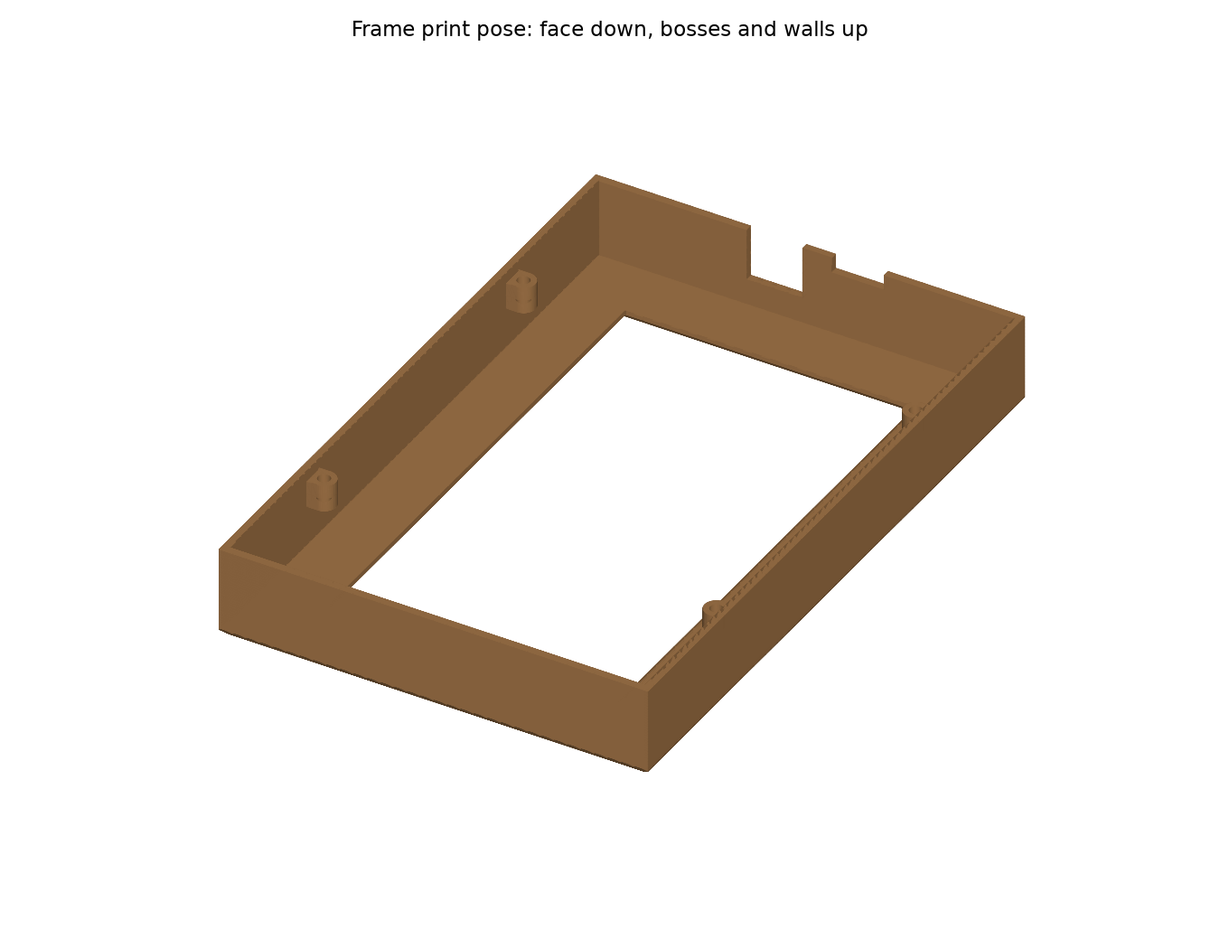
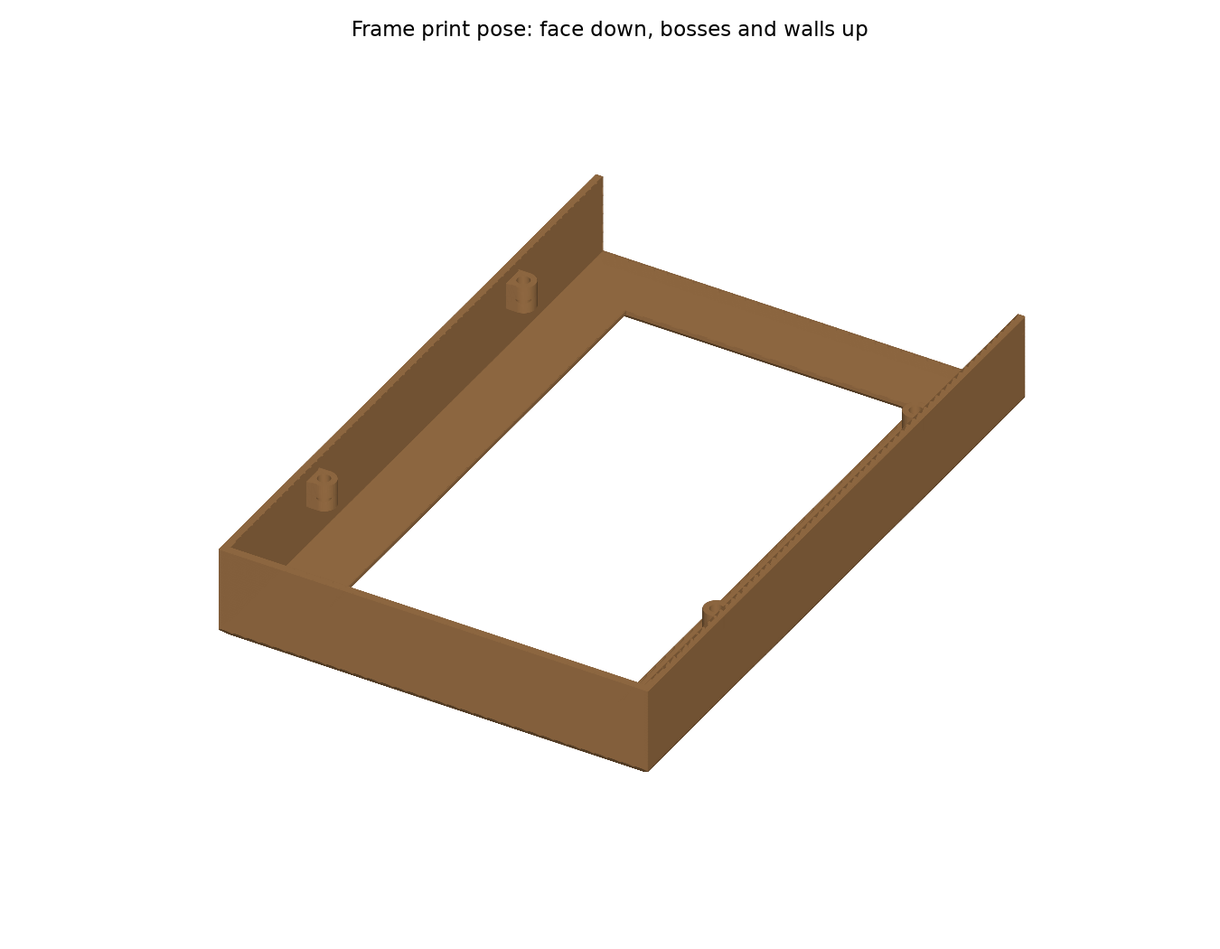
fix: COM-431 drop the espframe stand frame's bottom wall
- Remove the 7" stand frame's bottom wall and its cable/dovetail notches; the face and side walls sit on the ledge felt
- Square the face's bottom outer edge so it sits flat on the ledge; chamfer kept on top and sides
- Ease MIN_TIP_FORCE_N to 4.25 for the 5 g lighter frame (4.28 N) and update checks for the open bottom
- README: COM-431 changes (reprint the frame only) and a bold assembly-order note about the 2.3 mm plate drop

Changed region(s): [[0.4667, 0.1829, 0.84, 0.3962]]

diff --git a/apps/espframe/hardware/stand/stand/frame.py b/apps/espframe/hardware/stand/stand/frame.py
@@ -1,10 +1,13 @@
 """Picture frame (style B, classic bevel, 21 mm face), printed face-down in wood-look PLA.
 
 The opening is the active area plus a small reveal, and the face is the same width all
-round, so the uneven black bezel reads as an even border. The frame hangs on four tabs
-on the back-plate (screws from behind into inserts in wall bosses) and its bottom rail
-sits on the felted ledge of the foot. It never touches the glass: felt on the back of the
-face stays FELT_CLEAR off the glass, and the walls clear the glass edges.
+round, so the uneven black bezel reads as an even border. The frame hangs on the
+back-plate (screws from behind into inserts in wall bosses) and the bottom edge of its face
+sits on the felted ledge of the foot. Walls run down the sides and across the top only: a
+bottom wall would have to fit between the ledge and the glass. The outer chamfer runs round
+the top and sides, and the bottom edge is square so the face sits flat on the ledge. It
+never touches the glass: felt on the back of the face stays FELT_CLEAR off the glass, and
+the walls clear the glass edges.
 """
 
 from build123d import Align, Cylinder, Part, Plane, Pos, Rectangle, Rot, extrude, loft
@@ -26,19 +29,20 @@ def build_frame() -> Part:
     z_front = z_back + p.FRAME_FACE_T
     ch, bev = p.FRAME_OUTER_CH, p.FRAME_BEVEL
 
-    # Face: straight outer band, then a 45° outer chamfer to the front surface.
+    # Face: straight outer band, then a 45° outer chamfer to the front surface on the top and
+    # sides. The bottom edge stays square, so the face comes right down to the ledge.
     face = extrude(_rect_at(ox0, ox1, oy0, oy1, z_back), z_front - ch - z_back)
     face += loft([_rect_at(ox0, ox1, oy0, oy1, z_front - ch),
-                  _rect_at(ox0 + ch, ox1 - ch, oy0 + ch, oy1 - ch, z_front)])
+                  _rect_at(ox0 + ch, ox1 - ch, oy0, oy1 - ch, z_front)])
     # Opening with a 45° bevel opening out towards the viewer.
     face -= extrude(_rect_at(px0, px1, py0, py1, z_back - 1), z_front - z_back + 2)
     face -= loft([_rect_at(px0, px1, py0, py1, z_front - bev),
                   _rect_at(px0 - bev - 0.01, px1 + bev + 0.01, py0 - bev - 0.01, py1 + bev + 0.01, z_front + 0.01)])
 
-    # Walls from the face back to the plate's back face.
+    # Side and top walls from the face back to the plate's back face; no bottom wall (COM-431).
     w = p.FRAME_WALL
     walls = extrude(_rect_at(ox0, ox1, oy0, oy1, -p.D_PLATE_BACK), p.D_PLATE_BACK + z_back)
-    walls -= extrude(_rect_at(ox0 + w, ox1 - w, oy0 + w, oy1 - w, -p.D_PLATE_BACK - 1), p.D_PLATE_BACK + z_back + 2)
+    walls -= extrude(_rect_at(ox0 + w, ox1 - w, oy0 - 1, oy1 - w, -p.D_PLATE_BACK - 1), p.D_PLATE_BACK + z_back + 2)
     frame = face + walls
 
     # Bosses for the M3 × 4 inserts, tied to the side walls, face at the plate's front face.
@@ -53,12 +57,6 @@ def build_frame() -> Part:
             frame -= Pos(xc, ty, -p.D_PLATE_FRONT - 0.01) * Cylinder(
                 p.INSERT_HOLE_D / 2, p.FRAME_INSERT_DEPTH, align=(Align.CENTER, Align.CENTER, Align.MIN))
 
-    # Cable notch through the bottom rail, behind the glass, where the plug lead drops into the foot.
-    frame -= screen_box(p.PORT_X - p.FRAME_NOTCH_W / 2, p.PORT_X + p.FRAME_NOTCH_W / 2, oy0 - 1, oy0 + w + 0.5,
-                        p.SLOT_T[0] - 1, p.D_PLATE_BACK + 1)
-    # Notch round the foot's dovetail rail, which rises from the ledge through the bottom rail.
-    frame -= screen_box(p.DOVE_X - p.DOVE_FLOOR_W / 2 - 1.0, p.DOVE_X + p.DOVE_FLOOR_W / 2 + 1.0, oy0 - 1, oy0 + w + 0.5,
-                        p.D_PLATE_BACK - p.DOVE_DEPTH - 0.5, p.D_PLATE_BACK + 1)
     return frame
 
 

diff --git a/apps/espframe/hardware/stand/stand/params.py b/apps/espframe/hardware/stand/stand/params.py
@@ -74,7 +74,8 @@ SCREEN_MASS = 354.0               # g, SOURCED (Waveshare listing, touch SKU)
 PLATE_T = 3.0                     # DESIGN
 RISER_D = 9.0                     # DESIGN: wide footprint, spreads screw load
 RISER_H = (PANEL_T + JST_DESIGN_H + PLATE_CLEAR) - (PANEL_T + TAB_H + BRASS_L)  # = 4.5, DESIGN
-PLATE_EDGE_CLEAR = 0.3           # DESIGN: plate edge to the frame's inner walls; the plate closes the whole back
+PLATE_EDGE_CLEAR = 0.3           # DESIGN: plate edge to the frame's inner walls; the plate closes the back at the sides and top
+                                  #   (the frame has no bottom wall, so a 2.3 mm gap stays above the ledge felt)
 PLATE_R = 0.5                     # DESIGN: corner radius (the frame's inner corners are square)
 # Vent slots through the plate (the back is otherwise closed): rows low down draw air in, rows
 # near the top let warm air out. Kept clear of the risers, spine, cable notch and frame screws.
@@ -180,9 +181,9 @@ RECEPTACLE_TRIAL_T = [1.0, 1.2, 1.4]   # DESIGN: test plates bracketing JACK_REC
 DOVE_TRIAL_CLEARS = [0.02, 0.03, 0.04]                    # DESIGN: round 3, brackets SLIDE_CLEAR (round 2: 0.05 closest, a touch loose)
 
 # Required results.
-MIN_TIP_FORCE_N = 4.3             # DESIGN (user, COM-417): accepted for the 15° lean on the 120 mm foot (4.32 N), in exchange
-                                  #   for a shorter foot. The 10° stand, 118 deep, was 4.5 N and the printed one felt very stable
-                                  #   without ballast; was 6.5 with steel (rev A design: 3.2)
+MIN_TIP_FORCE_N = 4.25            # DESIGN (user, COM-431): 4.3 for the 15° lean on the 120 mm foot (COM-417), eased when the
+                                  #   frame lost its bottom wall (~5 g) rather than reprint a deeper foot. The 10° stand, 118 deep,
+                                  #   was 4.5 N and the printed one felt very stable without ballast; was 6.5 with steel (rev A design: 3.2)
 
 # --- Picture frame (style B, classic bevel, 21 mm face, wood-look) -------------------
 FRAME_DENSITY = 1.18e-3           # g/mm³, EST: wood-fill PLA (1.15–1.2); PolyWood is lighter
@@ -195,8 +196,8 @@ MIN_REVEAL = 0.5                  # DESIGN: check limit
 FRAME_FACE_W = 21.0               # DESIGN: minimum for an even border (top/bottom bezels are 19.04)
 FRAME_FACE_T = 4.0                # DESIGN
 FRAME_BEVEL = 3.0                 # DESIGN: 45° × 3 into the opening
-FRAME_OUTER_CH = 2.0              # DESIGN: 45° outer chamfer
-FRAME_WALL = 2.0                  # DESIGN
+FRAME_OUTER_CH = 2.0              # DESIGN: 45° outer chamfer, top and sides; the bottom edge is square (COM-431)
+FRAME_WALL = 2.0                  # DESIGN: side and top walls; no bottom wall (COM-431: it didn't fit between ledge and glass)
 FRAME_FACE_GAP = FELT_T + FELT_CLEAR   # face rear surface in front of the glass (1.2)
 MIN_EDGE_GAP = 0.5                # DESIGN: check limit, glass edge to frame wall
 
@@ -219,6 +220,5 @@ FRAME_BOSS_D = 7.0                # DESIGN
 FRAME_BOSS_L = 8.0                # DESIGN: boss length towards the glass from the plate front face
 FRAME_INSERT_DEPTH = INSERT_M3x4_L + 2.0   # DESIGN: M3 × 8 through a 3 mm tab reaches 5
 FRAME_SCREW_L = 8.0               # DESIGN
-FRAME_NOTCH_W = 17.0              # DESIGN: cable notch through the frame's bottom rail; 15 felt tight (COM-417)
 
 MIN_DOVE_ENGAGE = 30.0            # DESIGN: check limit

diff --git a/apps/espframe/hardware/stand/stand/checks.py b/apps/espframe/hardware/stand/stand/checks.py
@@ -85,7 +85,7 @@ def run(parts: dict) -> list:
     push_z = screen_point(p.GLASS_W / 2, p.GLASS_H / 2, 0).Z
     force = m_tot / 1000 * g * (p.FOOT_D - cg_y) / push_z
     side = math.degrees(math.atan((p.FOOT_W / 2) / cg_z))
-    detail = (f"{force:.1f} N (need ≥ {p.MIN_TIP_FORCE_N}); total {m_tot:.0f} g = "
+    detail = (f"{force:.2f} N (need ≥ {p.MIN_TIP_FORCE_N}); total {m_tot:.0f} g = "
               + ", ".join(f"{n} {m:.0f}" for m, _, _, n in masses)
               + f"; CG {cg_y:.1f} mm behind the glass corner, {cg_z:.1f} mm up; sideways tip at {side:.0f}°")
     add("Tip-over push at screen centre", force >= p.MIN_TIP_FORCE_N, detail)
@@ -158,9 +158,10 @@ def run(parts: dict) -> list:
         f"closest frame-to-glass {g_gap:.2f} mm (need ≥ {p.MIN_EDGE_GAP}), overlap {g_over:.4f} mm³")
     w = p.FRAME_WALL
     edges = dict(left=0 - (p.FRAME_X[0] + w), right=(p.FRAME_X[1] - w) - p.GLASS_W,
-                 top=(p.FRAME_Y[1] - w) - p.GLASS_H, bottom=0 - (p.FRAME_Y[0] + w))
+                 top=(p.FRAME_Y[1] - w) - p.GLASS_H)
     add("Glass edge gap", min(edges.values()) >= p.MIN_EDGE_GAP,
-        "L / R / T / B " + " / ".join(f"{v:.2f}" for v in edges.values()) + f" mm (need ≥ {p.MIN_EDGE_GAP})")
+        "L / R / T " + " / ".join(f"{v:.2f}" for v in edges.values()) + f" mm (need ≥ {p.MIN_EDGE_GAP}); "
+        f"B open, no bottom wall: ledge felt {p.RISE:.2f} mm below the glass")
     felt = ref.face_felt()
     f_gap = felt.distance_to(panel)
     f_over = (felt & aa).volume
@@ -182,8 +183,9 @@ def run(parts: dict) -> list:
         f"with an M3 × 4 insert")
     lf = SCREEN_TO_WORLD * ref.ledge_felt()
     seat_ok = lf.distance_to(foot) < 1e-3 and lf.distance_to(frame_w) < 1e-3 and (frame_w & foot).volume < 1e-3
-    add("Frame rail seats on the ledge", seat_ok,
-        f"bottom rail sits on {p.FELT_T:.0f} mm felt on the ledge; screen raised {p.RISE:.2f} mm by the rail; "
+    add("Frame face seats on the ledge", seat_ok,
+        f"face bottom edge (square, {p.FRAME_FACE_T:.0f} mm) and side walls sit on {p.FELT_T:.0f} mm felt on the ledge; "
+        f"screen raised {p.RISE:.2f} mm; "
         f"frame-to-foot overlap {(frame_w & foot).volume:.4f} mm³, closest {frame_w.distance_to(foot):.2f} mm")
     engage = min(p.DOVE_GROOVE_L, p.DOVE_RAIL_L - p.SEAT) - max(0.0, -p.SEAT)
     add("Dovetail engagement", engage >= p.MIN_DOVE_ENGAGE,

diff --git a/apps/espframe/hardware/stand/stand/frames.py b/apps/espframe/hardware/stand/stand/frames.py
@@ -6,8 +6,8 @@ from . import params as p
 
 # Screen frame: x across, y up the glass from its bottom edge, z = -depth behind
 # the glass front. Rotating by (90 - tilt) about X maps it onto the world frame.
-# The ledge surface is the screen-frame plane y = -SEAT (the frame's bottom rail sits
-# on felt on it), and the point (y = -SEAT, depth 0) lands at world (Y=0, Z=LEDGE_H).
+# The ledge surface is the screen-frame plane y = -SEAT (the bottom edge of the frame's
+# face sits on felt on it), and the point (y = -SEAT, depth 0) lands at world (Y=0, Z=LEDGE_H).
 SCREEN_TO_WORLD: Location = Pos(0, 0, p.LEDGE_H) * Rot(X=90 - p.TILT_DEG) * Pos(0, p.SEAT, 0)
 
 

diff --git a/apps/espframe/hardware/stand/stand/foot.py b/apps/espframe/hardware/stand/stand/foot.py
@@ -44,7 +44,7 @@ def build_foot() -> Part:
     L = layout()
 
     # Body: side profile extruded across the width. The ledge is a flat seat (with felt)
-    # under the picture frame's bottom rail, from just in front of the frame face back
+    # under the picture frame's face and side walls, from just in front of the frame face back
     # to the plate; no lip, so nothing touches the glass.
     seat_front = _sp(-p.SEAT, -(p.FRAME_FACE_GAP + p.FRAME_FACE_T + p.LEDGE_OVER))
     profile = [

diff --git a/apps/espframe/hardware/stand/stand/reference.py b/apps/espframe/hardware/stand/stand/reference.py
@@ -62,7 +62,7 @@ def face_felt() -> Part:
 
 
 def ledge_felt() -> Part:
-    """1 mm felt between the ledge and the frame's bottom rail (screen frame)."""
+    """1 mm felt between the ledge and the frame's face and side walls (screen frame)."""
     return screen_box(p.FRAME_X[0], p.FRAME_X[1], -p.SEAT, -p.RISE,
                       -(p.FRAME_FACE_GAP + p.FRAME_FACE_T), p.D_PLATE_BACK)
 

diff --git a/apps/espframe/hardware/stand/README.md b/apps/espframe/hardware/stand/README.md
@@ -12,26 +12,35 @@ A 3D-printable portrait desk stand for the 7" espframe (Waveshare ESP32-S3-Touch
 
 - **Picture frame (wood-look PLA).** Style B, classic bevel, with a 21 mm face.
   - The opening is the picture area plus a 0.75 mm reveal (88.22 × 156.38), and the face is the same width all round. That hides the panel's uneven black bezel (11 / 13 / 19 / 19 mm) behind an even border, so the frame sits 1 mm right of the glass centre.
-  - The face is 4 mm thick, with a 45° × 3 mm bevel into the opening and a 2 mm outer chamfer.
-  - The frame hangs on the back-plate: four M3 × 8 screws from behind, through the plate's edges, go into inserts in bosses on its side walls. Its bottom rail sits on felt on the foot's ledge.
-  - It never touches the glass. 1 mm felt on the back of the face stays 0.2 mm off the glass, and the walls clear the glass edges by ≥ 0.7 mm.
+  - The face is 4 mm thick, with a 45° × 3 mm bevel into the opening and a 2 mm outer chamfer round the top and sides. Its bottom edge is square, so the face comes right down to the ledge.
+  - The frame hangs on the back-plate: four M3 × 8 screws from behind, through the plate's edges, go into inserts in bosses on its side walls. The walls run down the sides and across the top only. There's no bottom wall: the bottom edge of the face and the ends of the side walls sit on felt on the foot's ledge.
+  - It never touches the glass. 1 mm felt on the back of the face stays 0.2 mm off the glass, and the walls clear the side and top glass edges by ≥ 0.7 mm.
 - **Back-plate (3 mm PETG).** It screws to the four M3 brass spacers that Waveshare already fits to the panel (8 mm, on ~2 mm tabs, tops at 10 mm).
   - Four printed risers (Ø9 × 4.5) sit on the spacers, lifting the plate to 14.5 mm above the panel back. That clears the tallest part, the 12 mm UART2 JST, by 2 mm (designed to 12.5).
-  - It fills the frame out to its walls (0.3 mm clear), so the back is closed all round, and carries the frame on four screws near its side edges.
+  - It fills the frame out to its walls (0.3 mm clear), so the back is closed at the sides and top, with a 2.3 mm gap left along the bottom between the plate edge and the ledge felt (the frame has no bottom wall since COM-431), and carries the frame on four screws near its side edges.
   - Two rows of vent slots low down and two near the top (4 slots of 20 × 3 mm each) let air through, since the back is otherwise closed.
-- **Foot (PETG).** The plate slides down onto a dovetail rail on the foot's post, and the frame's bottom rail settles on the felted ledge (20 mm high). The screen leans back at 15°, like a desktop picture frame (10° before COM-417).
+- **Foot (PETG).** The plate slides down onto a dovetail rail on the foot's post, and the frame's face settles on the felted ledge (20 mm high). The screen leans back at 15°, like a desktop picture frame (10° before COM-417).
   - No ballast: the printed stand was sturdy without it, and the front under the ledge is solid. The foot is 120 mm deep.
   - The tray is open on top and closed with a lid that clicks in: two small ridges on each long edge snap into grooves in the tray's rim. Prise it out at the slot in its front-right corner.
 - **Power and data.** A Poyiccot USB 3.1 panel-mount extension (straight, 30 cm) passes every pin through:
   - Its plug goes into the board's UART (CH343) USB-C port.
-  - The lead drops through notches in the plate and frame and through the deck slot, bends at R18, lies as one loose coil in the tray, and ends at the panel jack in the rear wall.
+  - The lead drops through a notch in the plate, past the open bottom of the frame and through the deck slot, bends at R18, lies as one loose coil in the tray, and ends at the panel jack in the rear wall.
   - Any USB-C charger works, and you can flash or read logs through the stand without taking it apart.
 - **Orientation.** The board's USB edge goes down: the landscape panel turned 90° counter-clockwise, seen from the front. Pick the matching rotation in the espframe settings (COM-362).
+
+## Changes in COM-431
+
+- **No bottom wall on the frame.** The 2 mm bottom wall, and its cable and dovetail notches, had to fit between the ledge and the glass's bottom edge with only 0.7 mm to spare, and on the printed stand it didn't. The frame now has walls down the sides and across the top only. The face's bottom edge and the side walls sit on the ledge felt, and the device still hangs on the plate's dovetail, so the screen sits at the same height as before (dovetail engagement unchanged at 31.8 mm).
+- **Square bottom edge.** The outer chamfer now runs round the top and sides only, so the face sits flat on the ledge with no notch and looks closer to the base.
+- **Tip-over limit 4.25 N** (was 4.3). The frame is about 5 g lighter, which takes the push to tip the stand back from 4.32 to 4.28 N. Reprinting a 1 mm deeper foot to win that back wasn't worth it.
+- **Assembly order matters** (step 6 below). Screw the frame to the plate before mounting it. The dovetail is a free slide, and the frame on the felt is what sets the plate's height. Mounted without the frame, the plate slides 2.3 mm further down until its bottom edge lands on the felt, and the frame's screw bosses then sit 2.3 mm above the plate's holes.
+
+**What to reprint:** only the frame. A printed COM-417 frame with its bottom wall cut off flush works the same, apart from the outer chamfer still on its bottom edge.
 
 ## Changes in COM-417
 
 - **15° lean** (was 10°). The ledge is 2 mm higher (20 mm) so the deck and lid stay clear of the cable coil, and the foot is 120 mm deep (was 118).
-- **Wider plug path.** The cable tunnel through the foot was 12 mm wide, narrower than the 12.5 mm plug. The tunnel and the deck slot are now 16 mm wide, and the cable notches in the plate and frame are 16 and 17 mm.
+- **Wider plug path.** The cable tunnel through the foot was 12 mm wide, narrower than the 12.5 mm plug. The tunnel and the deck slot are now 16 mm wide, and the cable notches in the plate and frame are 16 and 17 mm (the frame's went with its bottom wall in COM-431).
 - **The lid clicks in** on printed detents instead of just resting in its rabbet.
 
 **What to reprint:** the foot and lid. The plate and frame only gained wider cable notches (+2 mm), so reprinting them is optional: keep yours if the lead already drops through them easily.
@@ -73,15 +82,15 @@ Every dimension is a named constant in [`stand/params.py`](stand/params.py), tag
 | Plug bend fits above the tray floor | 4.9 mm of straight drop to spare (rev D without the frame had 1.9) |
 | Plug passes the tunnel and deck slot | 12.5 × 6.5 plug: 1.75 mm per side in the 16 mm tunnel and the 16 mm slot (need ≥ 1), 3.0 mm of tunnel height to spare |
 | Lid detents | 4 ridges 0.3 mm high snap past 0.15 mm of interference into 0.25 mm grooves, leaving 1.25 mm of rear wall. Only the rear wall flexes: 0.15 mm with the front edge hooked in first, 0.30 if the lid is pressed in flat; no overlap once seated; lift slot clear |
-| Tip-over: push at the screen centre to tip it back | **4.3 N** (need ≥ 4.3) at 15° and 120 mm deep, accepted in exchange for a shorter foot when the lean went to 15°. The 10° stand, 118 mm deep, was 4.5 N, and that print felt sturdy without ballast; rev A design was 3.2 N. A foot about 126 mm deep would hold 4.5 N at 15°. Sideways tip at 34°. Weight stuck under the front raises it (about +0.8 N per 100 g). |
+| Tip-over: push at the screen centre to tip it back | **4.28 N** (need ≥ 4.25) at 15° and 120 mm deep, accepted in exchange for a shorter foot when the lean went to 15° (4.32 before COM-431 took the frame's bottom wall off). The 10° stand, 118 mm deep, was 4.5 N, and that print felt sturdy without ballast; rev A design was 3.2 N. A foot about 126 mm deep would hold 4.5 N at 15°. Sideways tip at 34°. Weight stuck under the front raises it (about +0.8 N per 100 g). |
 | Frame opening clear of the picture | 0.75 mm reveal on every side (need ≥ 0.5) |
 | Frame never touches the glass | closest 0.71 mm (need ≥ 0.5) |
-| Glass edge gap L / R / T / B | 8.75 / 6.71 / 0.71 / 0.71 mm |
+| Glass edge gap L / R / T | 8.75 / 6.71 / 0.71 mm. The bottom is open (no bottom wall), with the ledge felt 2.71 mm below the glass |
 | Face felt clears the glass | 0.20 mm, none over the picture |
 | Only the picture shows through the opening | head-on, nothing but glass inside the opening: no frame, felt, plate, spacers or plug |
 | Plate edges meet the frame bosses | flush contact, no overlap |
 | Frame screw engagement | M3 × 8 through the 3 mm plate: 5 mm into a 6 mm hole with an M3 × 4 insert |
-| Frame rail seats on the ledge | on 1 mm felt; frame to foot never closer than 0.2 mm elsewhere |
+| Frame face seats on the ledge | square bottom edge of the face and the side walls on 1 mm felt; frame to foot never closer than 1.0 mm elsewhere |
 | Jack fits its recess and window | measured flange 25 × 8 × 6.5 bears on the 1.2 mm web inside the rear wall; no overlap |
 | Receptacle flush with the rear face | the metal USB-C receptacle (1.2 mm proud of the flange) pokes through a 9.3 × 3.7 window and ends flush |
 | Jack screws from outside | the jack's own screws (16.5 mm pitch) pass 0.3 mm clear of its body. Their heads leave 11 mm between them, so a charger plug moulding wider than that can't seat fully: test yours |
@@ -101,7 +110,7 @@ Structural parts are PETG on the stock Bambu P1S profile with the 0.4 mm nozzle.
 | `plate` | As exported: back face on the bed, risers and spine up. The dovetail groove's undercut faces the bed and prints without supports. | 4 walls, 40% infill (the risers end up solid), 0.2 mm layers |
 | `foot` | As exported: upright on its base | 4 walls, 25% infill, no supports. |
 | `lid` | Flat | 3 walls. If the detents are too stiff or too loose, tune `LID_DETENT_H` (0.3 mm). |
-| `frame` | As exported: face down on the bed, walls and bosses up. The bevel and outer chamfer are 45° overhangs: no supports. | Wood-look PLA, 3 walls, 20% infill. See the wood-look notes. |
+| `frame` | As exported: face down on the bed, walls and bosses up. The bevel and outer chamfer are 45° overhangs: no supports. The bottom end of the frame is open. | Wood-look PLA, 3 walls, 20% infill. See the wood-look notes. |
 
 ### Wood-look frame
 
@@ -112,7 +121,7 @@ Structural parts are PETG on the stock Bambu P1S profile with the 0.4 mm nozzle.
   - PLA softens around 55–60 °C, so keep the stand out of direct sun and hot cars.
   - Use the spool's own temperature, and don't leave the nozzle idling hot: wood fibre chars and clogs.
 - **Finish.** A smooth build plate gives a clean front face; a textured plate gives a matte grain. Wood fill can be sanded and stained.
-- **Mass.** The frame is about 76 g in wood-fill PLA (`FRAME_DENSITY` 1.18 g/cm³; PolyWood is lighter).
+- **Mass.** The frame is about 71 g in wood-fill PLA (`FRAME_DENSITY` 1.18 g/cm³; PolyWood is lighter).
 
 ## Bill of materials
 
@@ -125,7 +134,7 @@ Structural parts are PETG on the stock Bambu P1S profile with the 0.4 mm nozzle.
 | 4 | LUKAISEN M3 × 4 × 4.2 heat-set inserts (user's kit) | Frame side-wall bosses |
 | 1 | LUKAISEN M3 × 4 × 4.2 heat-set insert + 1 M3 × 12 | Optional foot lock (plate spine) |
 | 1 | 1 mm adhesive felt, ≈ 540 × 6 mm | Back of the frame face, over the black bezel only |
-| 1 | 1 mm adhesive felt, ≈ 130 × 28 mm | Ledge seat under the frame's bottom rail |
+| 1 | 1 mm adhesive felt, ≈ 130 × 28 mm | Ledge seat under the frame's face and side walls |
 | 4 | Small rubber feet | Under the foot |
 
 No heat-set kit? Buy an M3 assortment. Inserts go in with a soldering iron, pressed in square and flush. Use **220–240 °C for PETG** (plate, foot) and **about 190–200 °C for the PLA frame**. The wood-fill frame is more brittle than PETG, so snug its M3 × 8 screws and don't crank them. Hole size is `INSERT_HOLE_D` (OD − 0.2 = 4.0 mm); confirmed snug and flush in PETG on a test print. The wood-fill frame is untested; if its inserts go in loose or crack a boss, tune it there.
@@ -139,8 +148,8 @@ No heat-set kit? Buy an M3 assortment. Inserts go in with a soldering iron, pres
 3. **Jack.** With the lid off, set the jack inside the tray against the rear wall, receptacle outwards, so the flange drops into its recess and the receptacle pokes through the window. Fit the jack's own two screws from outside through the wall into the flange's threaded holes.
 4. **Cable.** Lay the spare cable as one loose coil in the tray beside the jack, no tighter than about 40 mm across. Then run it forward through the tunnel and push the plug up through the deck slot. Both are 16 mm wide, so the 12.5 × 6.5 plug passes with 1.75 mm each side.
 5. **Plate.** Screw the plate to the four brass spacers with M3 × 12 + washers. The spine and dovetail groove go to the bottom, near the USB edge.
-6. **Frame.** Lay the screen face down on a soft cloth and lower the frame over it. Fix it with four M3 × 8 + washers from behind, through the plate's edge holes into the frame inserts. Check the even border, and that the felt only rests on the black bezel.
-7. **Plug and mount.** Plug the straight plug into the board's UART USB-C. Lower the plate's groove onto the foot's rail and let it slide down until the frame's bottom rail sits on the felted ledge. The plug's lead runs down through the notches in the plate and frame and into the deck slot.
+6. **Frame.** **Screw the frame to the plate now, before the plate goes on the foot.** The dovetail doesn't stop the plate on its own: the frame resting on the ledge felt sets the height. Slid on without the frame, the plate drops 2.3 mm until its own bottom edge lands on the felt, and the frame's holes no longer line up with the plate's. Lay the screen face down on a soft cloth and lower the frame over it. Fix it with four M3 × 8 + washers from behind, through the plate's edge holes into the frame inserts. Check the even border, and that the felt only rests on the black bezel.
+7. **Plug and mount.** Plug the straight plug into the board's UART USB-C. Lower the plate's groove onto the foot's rail and let it slide down until the frame's face sits on the felted ledge. The plug's lead runs down through the notch in the plate, past the frame's open bottom and into the deck slot.
    - Optionally, fit the foot-lock M3 × 12 from the back of the post.
    - Fit the lid front edge first, so its front ridges drop into their grooves, then press the rear edge down until it clicks. Only the thin rear wall flexes, and a lid pressed in flat makes it flex twice as far.
 8. **Rotation.** In the espframe settings, pick the rotation (90 or 270) that shows the picture upright.

diff --git a/apps/espframe/hardware/stand/docs/10-inch.md b/apps/espframe/hardware/stand/docs/10-inch.md
@@ -107,9 +107,9 @@ The 7" was printed and tested piece by piece; its README has the details. These 
 - **Vent slots:** with a closed back, there are two rows low (air in) and two high (air out), kept clear of the risers, spine and screws. On the 10", also keep them clear of the antenna region.
 - **No steel ballast:** the printed 7" was sturdy without it, so the pockets were dropped. The tip-over check now uses a **4.5 N** target (horizontal push at the screen centre) taken from that hands-on test. COM-417 then moved the 7" to a 15° lean on a 120 mm foot and accepted 4.3 N for it.
   - Method: model each part's volume × density × fill, find the centre of mass, and check the push needed to tip it about the foot's rear edge. Then **hand-test the printed stand** and set the target from that.
-  - The model read 4.5 N for the 10° 7" on its 118 mm foot, and reads 4.32 N at 15° on 120 mm (COM-417).
+  - The model read 4.5 N for the 10° 7" on its 118 mm foot, read 4.32 N at 15° on 120 mm (COM-417), and reads 4.28 N since COM-431 took the frame's bottom wall off (target eased to 4.25).
 - **Shorter foot:** the 7" went from 128 to 118 mm deep, then 120 with the 15° lean (COM-417). The spool post was replaced by a loose cable coil in the tray.
-- **Single dovetail:** two parallel sliding fits at 0.02 mm would bind. One locates itself, and the frame's bottom rail resting on the felted ledge takes the weight and stops it rocking.
+- **Single dovetail:** two parallel sliding fits at 0.02 mm would bind. One locates itself, and the frame resting on the felted ledge takes the weight and stops it rocking. The 7" frame has no bottom wall (COM-431): one would have to fit between the ledge and the glass edge. Its face's square bottom edge and the side walls sit on the felt, and the frame must be screwed to the plate before mounting, since the dovetail slide doesn't set the height itself.
 
 **Bugs to avoid.**
 - **The dovetail groove must end inside the spine.**
